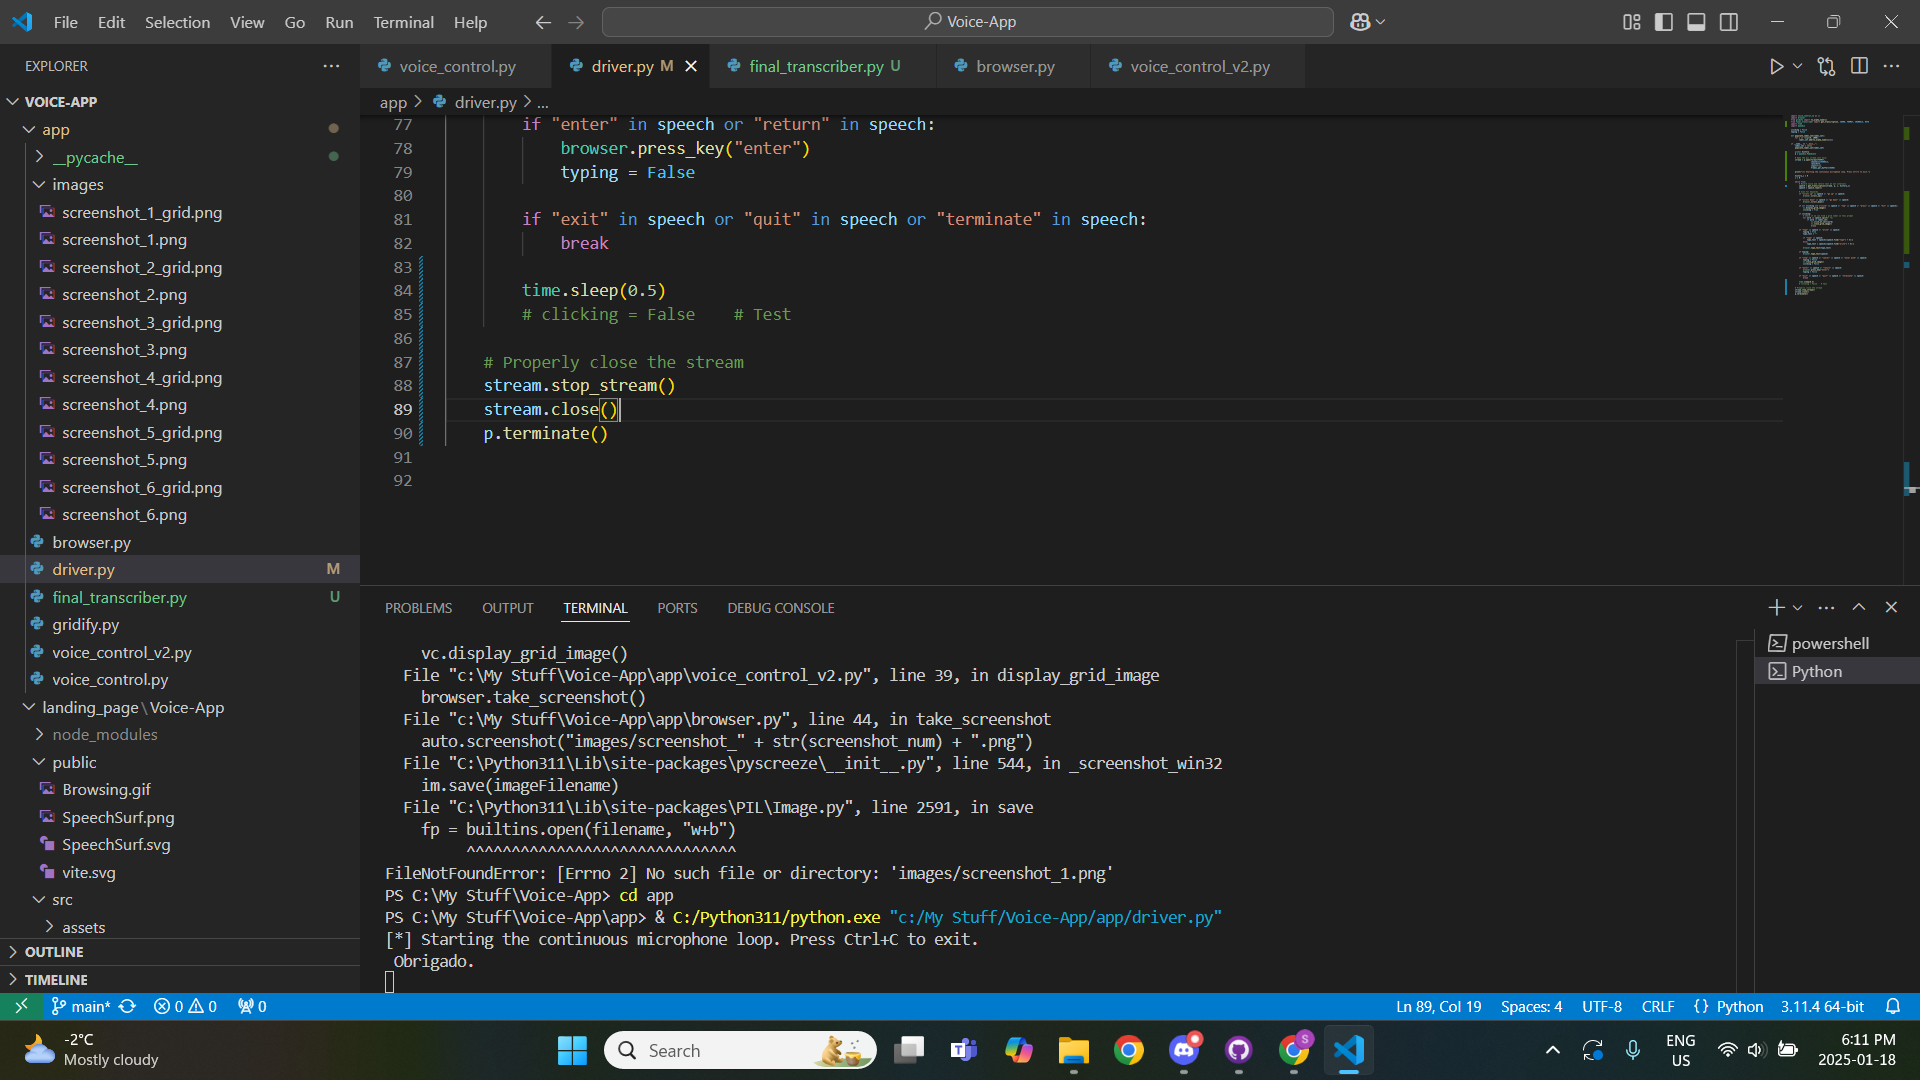
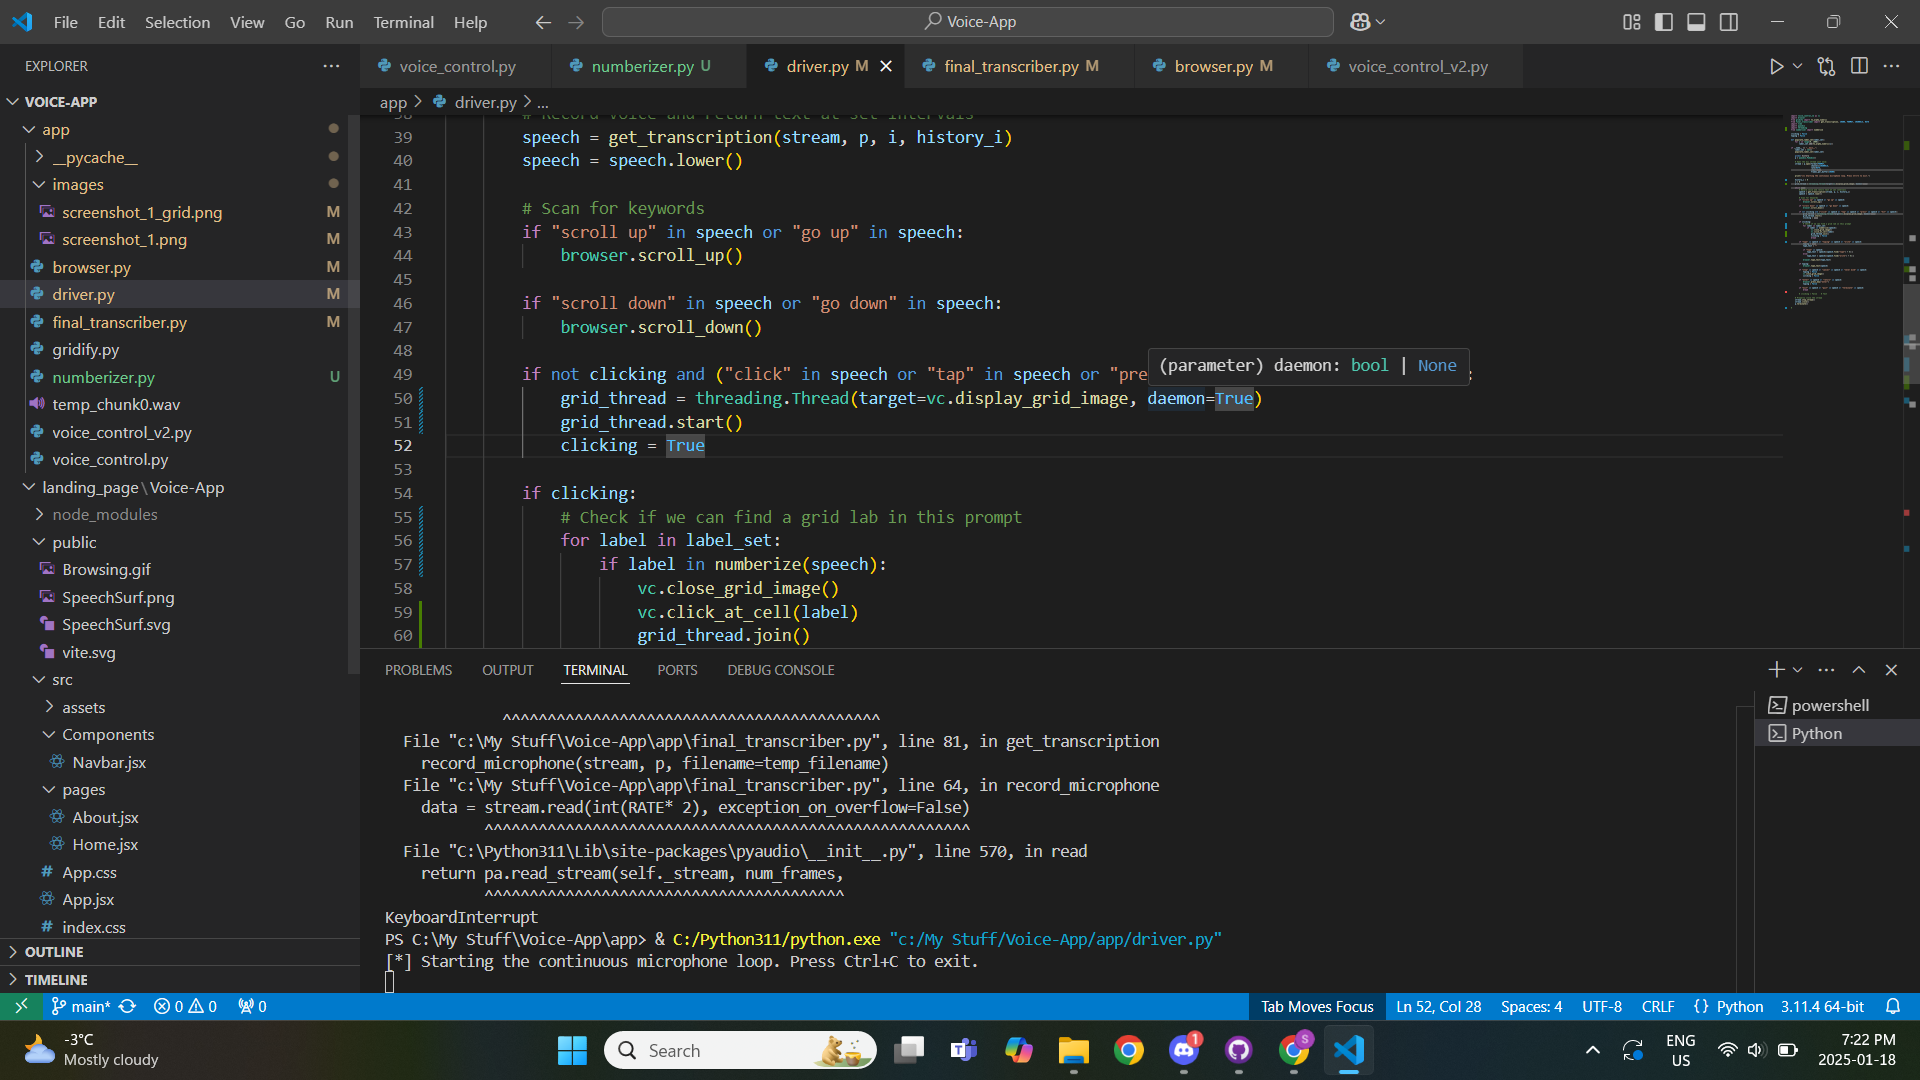
Thread problem needs to be solved

diff --git a/app/driver.py b/app/driver.py
@@ -4,6 +4,8 @@ from gridify import to_alpha_numeric
 from final_transcriber import get_transcription, CHUNK, FORMAT, CHANNELS, RATE
 import time
 import pyaudio
+import threading
+from numberizer import numberize
 
 clicking = False
 typing = False
@@ -28,8 +30,9 @@ if __name__ == "__main__":
 
     print("[*] Starting the continuous microphone loop. Press Ctrl+C to exit.")
 
-    history_i = 0
+    history_i = 0   
     i = 0
+    grid_thread = threading.Thread(target=vc.display_grid_image, daemon=True)
 
     while True:
         # Record voice and return text at set intervals
@@ -44,18 +47,21 @@ if __name__ == "__main__":
             browser.scroll_down()
         
         if not clicking and ("click" in speech or "tap" in speech or "press" in speech or "hit" in speech):
-            vc.display_grid_image()
+            grid_thread = threading.Thread(target=vc.display_grid_image, daemon=True)
+            grid_thread.start()
             clicking = True
         
         if clicking:
-            # Check if we can find a grid label in this prompt
-            for word in speech.split(" "):
-                if word in label_set:
-                    vc.click_at_cell(word)
+            # Check if we can find a grid lab in this prompt
+            for label in label_set:
+                if label in numberize(speech):
                     vc.close_grid_image()
+                    vc.click_at_cell(label)
+                    grid_thread.join()
+                    clicking = False
                     break
             
-        if "type" in speech or "write" in speech:
+        if "type" in speech or "typing" in speech or "write" in speech:
             typing = True
             type_text = ""
 
@@ -81,7 +87,6 @@ if __name__ == "__main__":
         if "exit" in speech or "quit" in speech or "terminate" in speech:
             break
         
-        time.sleep(0.5)
         # clicking = False    # Test
     
     # Properly close the stream
@@ -89,4 +94,4 @@ if __name__ == "__main__":
     stream.close()
     p.terminate()
         
-        
+# 

diff --git a/app/final_transcriber.py b/app/final_transcriber.py
@@ -5,12 +5,10 @@ import time
 import os
 from collections import deque
 import threading
+from numberizer import numberize
 
-API_URL = ""
-# headers = {
-#     "Authorization": pass, 
-#     "x-wait-for-model": "true"
-# }
+API_URL = "https://api-inference.huggingface.co/models/openai/whisper-large-v3-turbo"
+headers = {"Authorization": "Bearer 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", "x-wait-for-model": "true"}
 
 # Audio settings
 CHUNK = 3200
@@ -63,7 +61,7 @@ def record_microphone(stream, p, filename="temp_audio.wav"):
     Then we write those last 2 seconds to a WAV file and return its filename.
     """
     # Read a single chunk from the stream
-    data = stream.read(int(RATE* 2), exception_on_overflow=False)
+    data = stream.read(int(RATE* 5), exception_on_overflow=False)
 
     # Now 'audio_buffer' has at most 2 seconds of audio (in CHUNK-sized frames).
 
@@ -84,6 +82,7 @@ def get_transcription(stream, p, i, history_i):
 
     # Now transcribe
     transcription = transcribe_audio(temp_filename)
+    
     # history += transcription
     # print(f"[*] Transcription ({temp_filename}): {transcription}")
     print(transcription)

diff --git a/app/browser.py b/app/browser.py
@@ -1,12 +1,14 @@
 import pyautogui as auto
 import keyboard
 import time
+import threading
 
 TYPING_INTERVAL = 0.01  # How many seconds between key presses
 SCROLL_AMOUNT = 30       # How many "clicks" of the scroll wheel
 
 # Global vars
 screenshot_num = 0
+text = ""
 
 # Functions
 def move_to(x, y, moveDuration):
@@ -26,16 +28,21 @@ def slow_right_click(x, y, moveDuration):
 def fast_right_click(x, y):
     auto.rightClick(x, y)
 
-def type_text(text):
+def type_text(new_text):
+    global text
+    text = new_text
+    thread = threading.Thread(target=type_text_real, daemon=True)
+    thread.start()
+    thread.join()
+
+def type_text_real():
     for char in text:
         if char.isupper():
             auto.keyDown("shift")
-            auto.typewrite(char, interval=TYPING_INTERVAL)
+            auto.write(char)
             auto.keyUp("shift")
         else:
-            auto.typewrite(char, interval=TYPING_INTERVAL)
-    
-    auto.press("enter")
+            auto.write(char)
 
 def take_screenshot():
     global screenshot_num

diff --git a/app/numberizer.py b/app/numberizer.py
@@ -1,0 +1,6 @@
+import string
+from text_to_num import alpha2digit
+
+def numberize(text: str):
+    not_sussy = alpha2digit(text, "en")
+    return not_sussy.translate(str.maketrans('', '', string.punctuation))
